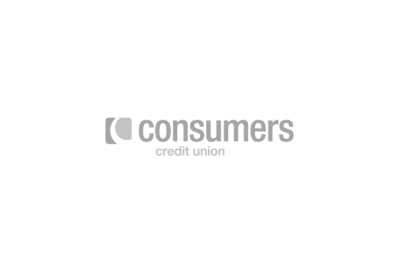
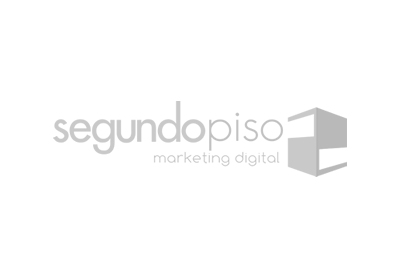
incorporación clientes

Changed region(s): [[0.12, 0.3542, 0.87, 0.6494]]

diff --git a/index.htm b/index.htm
@@ -132,7 +132,7 @@
     <!-- Clients ###########################################################--> 
     <!--####################################################################-->       
     
-   <!--  <section id="clients">
+    <section id="clients">
         <div class="container">
             <div class="row">
                 <div class="col-sm-12 col-md-12 col-lg-12">
@@ -145,8 +145,8 @@
                 </div>
                 <div class="col-xs-6 col-sm-2 col-md-2 col-lg-2">
                 <img src="images/client2.jpg" class="img-responsive client_logo" alt="client_logo">
-                </div> -->
-                <!-- <div class="col-xs-6 col-sm-2 col-md-2 col-lg-2">
+                </div>
+                <div class="col-xs-6 col-sm-2 col-md-2 col-lg-2">
                 <img src="images/client3.jpg" class="img-responsive client_logo" alt="client_logo">
                 </div>
                 <div class="col-xs-6 col-sm-2 col-md-2 col-lg-2">
@@ -157,11 +157,11 @@
                 </div>
                 <div class="col-xs-6 col-sm-2 col-md-2 col-lg-2">
                 <img src="images/client6.jpg" class="img-responsive client_logo" alt="client_logo">
-                </div> -->
-          <!--   </div>
+                </div>
+            </div>
             
         </div>
-    </section>  -->
+    </section> 
       
     <!--####################################################################-->
     <!-- //Clients #########################################################--> 
